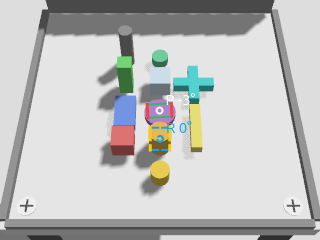
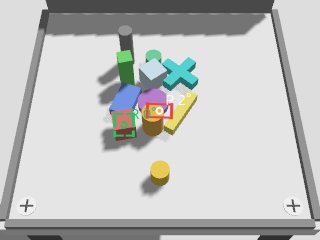
Refactorizar la estructura del código para mejorar la legibilidad y la mantenibilidad; eliminar bloques de código redundantes.

Changed region(s): [[0.2812, 0.2042, 0.6875, 0.7292]]

diff --git a/agarre_ros2_ws/src/ur5_qt_panel/ur5_qt_panel/panel_v2.py b/agarre_ros2_ws/src/ur5_qt_panel/ur5_qt_panel/panel_v2.py
@@ -1126,7 +1126,13 @@ class CameraController:
         now = time.time()
         if (now - p._camera_info_last_ts) >= max(0.05, float(CAMERA_INFO_INTERVAL_SEC)):
             p.camera_info.setText(f"Conectado · {w}x{h} · fps {fps:.1f}")
-            _moving = bool(p._manual_inflight or p._script_motion_active)
+            # TFM/MoveIt grasp execution uses _motion_in_progress rather than
+            # the manual/script flags, so include it in the panel state label.
+            _moving = bool(
+                p._manual_inflight
+                or p._script_motion_active
+                or getattr(p, "_motion_in_progress", False)
+            )
             p.motion_lbl.setText("moving" if _moving else "idle")
             p.motion_lbl.setStyleSheet(
                 "color:#f59e0b; font-weight:bold; font-size:13px;" if _moving
@@ -6074,6 +6080,23 @@ class ControlPanelV2(QMainWindow):
                         self._emit_log(f"[PHYSICS][DROP] {release_msg}")
 
                 if not release_ok:
+                    if used_release_service:
+                        time.sleep(0.6)
+                        try:
+                            self._refresh_objects_from_gz()
+                        except Exception as exc:
+                            self._emit_log(f"[PHYSICS][DROP] refresh_after_failed_release err={exc}")
+                        if self._sync_external_release_state():
+                            release_ok = True
+                            release_msg = (
+                                f"{release_msg}; recovered_via_pose_sync"
+                                if release_msg
+                                else "recovered_via_pose_sync"
+                            )
+                            self._emit_log(
+                                "[PHYSICS][DROP] release_objects recovered via pose/info reconciliation"
+                            )
+                if not release_ok:
                     self._objects_release_done = False
                     self._objects_settled = False
                     self.signal_refresh_controls.emit()
@@ -6089,6 +6112,10 @@ class ControlPanelV2(QMainWindow):
                 if release_ok and used_release_service:
                     # Give Gazebo a short window to respawn dynamic models before detach.
                     time.sleep(0.4)
+                    try:
+                        self._refresh_objects_from_gz()
+                    except Exception as exc:
+                        self._emit_log(f"[PHYSICS][DROP] refresh_after_release err={exc}")
 
                 if release_ok and used_release_service:
                     self._drop_anchor_attached = False
@@ -6120,7 +6147,12 @@ class ControlPanelV2(QMainWindow):
                 )
                 self.signal_refresh_controls.emit()
                 self._ui_set_status("✅ Objetos soltados")
-                self._invalidate_settle("objetos liberados", restart=True)
+                if used_release_service and self._sync_external_release_state():
+                    self._emit_log(
+                        "[PHYSICS][DROP] panel settle skipped: service release already reconciled"
+                    )
+                else:
+                    self._invalidate_settle("objetos liberados", restart=True)
                 self._maybe_nudge_drop_objects("release_success")
             except Exception as e:
                 self._log_error(f"Soltar objetos error: {e}")
@@ -7888,6 +7920,10 @@ class ControlPanelV2(QMainWindow):
                 yaw_rad = math.radians(yaw_deg)
                 orientation = (0.0, 0.0, math.sin(yaw_rad / 2.0), math.cos(yaw_rad / 2.0))
                 frame = self._business_base_frame()
+                tfm_grasp_cartesian = str(
+                    os.environ.get("PANEL_TFM_GRASP_CARTESIAN", "0")
+                ).strip().lower() not in ("0", "false", "no", "off")
+                grasp_mode = "cartesian" if tfm_grasp_cartesian else "pose"
                 pre_pose = _make_pose_data((x, y, z_pre), orientation=orientation, frame=frame)
                 grasp_pose = _make_pose_data((x, y, z_grasp), orientation=orientation, frame=frame)
                 retreat_pose = _make_pose_data((x, y, z_retreat), orientation=orientation, frame=frame)
@@ -7911,14 +7947,15 @@ class ControlPanelV2(QMainWindow):
                     f"pre_z={z_pre:.3f} yaw={yaw_deg:.1f} frame={frame} wait_result={str(has_results).lower()} "
                     f"z_approach={z_approach:.3f} z_grasp_offset={z_grasp_offset:+.3f} "
                     f"speed_scale={speed_scale:.2f} accel_scale={accel_scale:.2f} "
-                    f"result_timeout={result_timeout:.1f}",
+                    f"result_timeout={result_timeout:.1f} grasp_mode={grasp_mode}",
                 )
 
                 self.signal_run_ui.emit(lambda: self._command_gripper(False, log_action="PICK", force=True))
                 self._emit_log(
                     "[PICK][MOVEIT] sequence=HOME->PREGRASP->DESCENT->GRASP->RETREAT "
                     f"frame={frame} z_approach={z_approach:.3f} z_grasp_offset={z_grasp_offset:+.3f} "
-                    f"speed_scale={speed_scale:.2f} accel_scale={accel_scale:.2f}"
+                    f"speed_scale={speed_scale:.2f} accel_scale={accel_scale:.2f} "
+                    f"grasp_mode={grasp_mode}"
                 )
                 time.sleep(0.35)
 
@@ -7962,7 +7999,7 @@ class ControlPanelV2(QMainWindow):
                 pose_subs_now = int(self.ros_worker.topic_subscriber_count(MOVEIT_POSE_TOPIC)) if has_results else 1
                 if pose_subs_now <= 0:
                     raise RuntimeError(f"no_pose_subscribers_before_grasp topic={MOVEIT_POSE_TOPIC}")
-                if not self._publish_moveit_pose("TFM_GRASP", grasp_pose_send, cartesian=True):
+                if not self._publish_moveit_pose("TFM_GRASP", grasp_pose_send, cartesian=tfm_grasp_cartesian):
                     raise RuntimeError("publish_grasp_failed")
                 if has_results:
                     ok_grasp, msg_grasp = self._wait_tfm_moveit_result(
@@ -7972,8 +8009,10 @@ class ControlPanelV2(QMainWindow):
                         timeout_sec=result_timeout,
                         expected_request_id=grasp_request_id,
                         expected_request_uuid=grasp_request_uuid,
-                )
+                    )
                     if not ok_grasp:
+                        if not tfm_grasp_cartesian:
+                            raise RuntimeError(f"grasp_result_failed:{msg_grasp}")
                         msg_low = str(msg_grasp or "").lower()
                         reason = "unknown"
                         if "collision" in msg_low:
@@ -11479,33 +11518,6 @@ class ControlPanelV2(QMainWindow):
                 painter.setPen(QPen(QColor(0, 255, 0), 1))
                 painter.drawText(QPointF(px + 12, py - 8), f"P{i+1}")
 
-            # Ejes XYZ para orientar la calibración
-            def _world_to_pixel(wx: float, wy: float):
-                calib = self.calib_service.get_calibration() if hasattr(self, "calib_service") else None
-                if not calib or calib.matrix is None:
-                    return None
-                try:
-                    if calib.mode == CalibrationMode.LINEAR_2PT:
-                        sx = float(calib.matrix[0, 0])
-                        sy = float(calib.matrix[1, 1])
-                        tx = float(calib.matrix[0, 2])
-                        ty = float(calib.matrix[1, 2])
-                        if abs(sx) < 1e-9 or abs(sy) < 1e-9:
-                            return None
-                        px = (wx - tx) / sx
-                        py = (wy - ty) / sy
-                        return (px, py)
-                    if calib.mode == CalibrationMode.HOMOGRAPHY:
-                        inv = np.linalg.inv(calib.matrix)
-                        vec = inv @ np.array([wx, wy, 1.0])
-                        if abs(vec[2]) < 1e-9:
-                            return None
-                        return (float(vec[0] / vec[2]), float(vec[1] / vec[2]))
-                except Exception as exc:
-                    _log_exception("calib world_to_pixel", exc)
-                    return None
-                return None
-
             def _draw_arrow(p0, p1, color: QColor, label: str):
                 if not p0 or not p1:
                     return
@@ -11526,17 +11538,39 @@ class ControlPanelV2(QMainWindow):
                 painter.setPen(QPen(color, 1))
                 painter.drawText(QPointF(p1[0] + 4.0, p1[1] - 4.0), label)
 
-            # Representación compacta de ejes en la esquina superior izquierda
-            axis_len_px = max(26.0, min(w, h) * 0.07)
-            margin = 16.0
-            base = (margin, margin + axis_len_px * 1.2)
-            x_tip = (base[0] + axis_len_px, base[1])
-            y_tip = (base[0], base[1] - axis_len_px)
-            z_tip = (base[0] - axis_len_px * 0.5, base[1] - axis_len_px * 0.7)
+            # Dibujar ejes usando la proyeccion real de la calibracion.
+            # El icono fijo en esquina solo queda como fallback cuando no hay
+            # una proyeccion geometrica util.
+            table_top = self._resolve_table_top_z()
+            axis_span = min(TABLE_SIZE_X, TABLE_SIZE_Y) * 0.18
+            base = self._world_to_pixel(TABLE_CENTER_X, TABLE_CENTER_Y, table_top, w, h)
+            x_tip = self._world_to_pixel(TABLE_CENTER_X + axis_span, TABLE_CENTER_Y, table_top, w, h)
+            y_tip = self._world_to_pixel(TABLE_CENTER_X, TABLE_CENTER_Y + axis_span, table_top, w, h)
+            z_tip = world_xyz_to_pixel(TABLE_CENTER_X, TABLE_CENTER_Y, table_top + axis_span, w, h)
 
-            _draw_arrow(base, x_tip, QColor(239, 68, 68), "X+")
-            _draw_arrow(base, y_tip, QColor(34, 197, 94), "Y+")
-            _draw_arrow(base, z_tip, QColor(59, 130, 246), "Z+")
+            projected_axes_ok = bool(
+                base
+                and x_tip
+                and y_tip
+                and math.hypot(float(x_tip[0]) - float(base[0]), float(x_tip[1]) - float(base[1])) > 8.0
+                and math.hypot(float(y_tip[0]) - float(base[0]), float(y_tip[1]) - float(base[1])) > 8.0
+            )
+
+            if projected_axes_ok:
+                _draw_arrow(base, x_tip, QColor(239, 68, 68), "X+")
+                _draw_arrow(base, y_tip, QColor(34, 197, 94), "Y+")
+                if z_tip and math.hypot(float(z_tip[0]) - float(base[0]), float(z_tip[1]) - float(base[1])) > 8.0:
+                    _draw_arrow(base, z_tip, QColor(59, 130, 246), "Z+")
+            else:
+                axis_len_px = max(26.0, min(w, h) * 0.07)
+                margin = 16.0
+                base = (margin, margin + axis_len_px * 1.2)
+                x_tip = (base[0] + axis_len_px, base[1])
+                y_tip = (base[0], base[1] - axis_len_px)
+                z_tip = (base[0] - axis_len_px * 0.5, base[1] - axis_len_px * 0.7)
+                _draw_arrow(base, x_tip, QColor(239, 68, 68), "X+")
+                _draw_arrow(base, y_tip, QColor(34, 197, 94), "Y+")
+                _draw_arrow(base, z_tip, QColor(59, 130, 246), "Z+")
         finally:
             painter.end()
         return img_copy

diff --git a/agarre_ros2_ws/src/ur5_tools/ur5_tools/ur5_moveit_bridge.py b/agarre_ros2_ws/src/ur5_tools/ur5_tools/ur5_moveit_bridge.py
@@ -9,6 +9,7 @@ from collections import deque
 from copy import deepcopy
 import json
 import math
+import os
 from pathlib import Path
 import sys
 import threading
@@ -925,6 +926,16 @@ class UR5MoveItBridge(Node):
             time.sleep(0.05)
         return False, f"{last_reason} timeout={max(0.1, float(timeout_sec)):.2f}s"
 
+    @staticmethod
+    def _env_float(name: str, default: float) -> float:
+        raw = os.environ.get(name, "")
+        if not raw:
+            return float(default)
+        try:
+            return float(raw)
+        except Exception:
+            return float(default)
+
     def _available_action_names(self) -> list[str]:
         try:
             names = self.get_action_names_and_types()
@@ -1731,7 +1742,26 @@ class UR5MoveItBridge(Node):
                     max_start_err = max(max_start_err, err)
                     start_err_details.append((jname, cur, tgt, err))
 
-                lead_sec = max(0.20, min(2.50, max_start_err / 0.8))
+                lead_gain = max(
+                    0.20,
+                    self._env_float("PANEL_MOVEIT_BRIDGE_START_LEAD_GAIN", 0.8),
+                )
+                lead_max_sec = max(
+                    0.50,
+                    self._env_float("PANEL_MOVEIT_BRIDGE_START_LEAD_MAX_SEC", 2.5),
+                )
+                blend_err_rad = max(
+                    0.30,
+                    self._env_float("PANEL_MOVEIT_BRIDGE_START_BLEND_ERR_RAD", 1.0),
+                )
+                blend_ratio = min(
+                    0.80,
+                    max(
+                        0.20,
+                        self._env_float("PANEL_MOVEIT_BRIDGE_START_BLEND_RATIO", 0.55),
+                    ),
+                )
+                lead_sec = max(0.20, min(lead_max_sec, max_start_err / lead_gain))
                 if max_start_err > 0.05:
                     lead_sec = max(0.50, lead_sec)
                     top_errs = sorted(
@@ -1770,6 +1800,50 @@ class UR5MoveItBridge(Node):
                         tfs.nanosec = nsec
 
                 if max_start_err > 0.02:
+                    first_point_time = 0.0
+                    try:
+                        first_tfs = points[0].time_from_start
+                        first_point_time = (
+                            float(getattr(first_tfs, "sec", 0) or 0)
+                            + float(getattr(first_tfs, "nanosec", 0) or 0)
+                            / 1_000_000_000.0
+                        )
+                    except Exception:
+                        first_point_time = max(0.0, float(lead_sec))
+                    inserted_midpoint = False
+                    if max_start_err >= blend_err_rad and first_point_time >= 0.60:
+                        mid_time = min(
+                            max(0.25, first_point_time * blend_ratio),
+                            max(0.25, first_point_time - 0.10),
+                        )
+                        if mid_time >= 0.20:
+                            midpoint = deepcopy(points[0])
+                            midpoint_positions: list[float] = []
+                            for idx, jname in enumerate(joint_names):
+                                cur = float(current_vec[idx])
+                                tgt = float(first_positions[idx])
+                                if jname in self._WRAPAROUND_JOINTS:
+                                    delta = math.atan2(
+                                        math.sin(tgt - cur),
+                                        math.cos(tgt - cur),
+                                    )
+                                    interp = cur + (delta * blend_ratio)
+                                else:
+                                    interp = cur + ((tgt - cur) * blend_ratio)
+                                midpoint_positions.append(float(interp))
+                            midpoint.positions = tuple(midpoint_positions)
+                            midpoint.velocities = tuple(0.0 for _ in joint_names)
+                            if getattr(midpoint, "accelerations", None):
+                                midpoint.accelerations = tuple(0.0 for _ in joint_names)
+                            mid_sec = int(mid_time)
+                            mid_nsec = int(round((mid_time - mid_sec) * 1_000_000_000.0))
+                            if mid_nsec >= 1_000_000_000:
+                                mid_sec += 1
+                                mid_nsec -= 1_000_000_000
+                            midpoint.time_from_start.sec = mid_sec
+                            midpoint.time_from_start.nanosec = mid_nsec
+                            points.insert(0, midpoint)
+                            inserted_midpoint = True
                     start_point = deepcopy(points[0])
                     start_point.positions = tuple(current_vec)
                     start_point.velocities = tuple(0.0 for _ in joint_names)
@@ -1781,7 +1855,8 @@ class UR5MoveItBridge(Node):
                     prepared.points = points
                     self.get_logger().info(
                         "[BRIDGE_EXEC] inserted start-state waypoint for controller "
-                        f"max_start_err={max_start_err:.4f}rad lead_sec={lead_sec:.2f}"
+                        f"max_start_err={max_start_err:.4f}rad lead_sec={lead_sec:.2f} "
+                        f"midpoint={str(bool(inserted_midpoint)).lower()}"
                     )
                 try:
                     preview_points = list(points[:2])
@@ -2291,18 +2366,37 @@ class UR5MoveItBridge(Node):
                             level="warn",
                         )
                         continue
+                    settle_timeout_sec = max(
+                        0.4,
+                        self._env_float(
+                            "PANEL_MOVEIT_BRIDGE_JOINT_SETTLE_TIMEOUT_SEC",
+                            min(1.5, max(0.4, float(self._joint_state_valid_timeout_sec))),
+                        ),
+                    )
+                    settle_stable_sec = max(
+                        0.05,
+                        self._env_float("PANEL_MOVEIT_BRIDGE_JOINT_SETTLE_STABLE_SEC", 0.25),
+                    )
+                    settle_tol_rad = max(
+                        0.005,
+                        self._env_float("PANEL_MOVEIT_BRIDGE_JOINT_SETTLE_TOL_RAD", 0.02),
+                    )
                     settled_ok, settled_reason = self._wait_for_joint_state_settled(
-                        timeout_sec=min(1.5, max(0.4, float(self._joint_state_valid_timeout_sec))),
-                        stable_sec=0.25,
-                        tol_rad=0.02,
+                        timeout_sec=settle_timeout_sec,
+                        stable_sec=settle_stable_sec,
+                        tol_rad=settle_tol_rad,
                     )
                     if settled_ok:
                         self.get_logger().info(
-                            f"[BRIDGE_EXEC] joint_state_settled request_id={request_id} detail={settled_reason}"
+                            "[BRIDGE_EXEC] joint_state_settled "
+                            f"request_id={request_id} detail={settled_reason} "
+                            f"cfg(timeout={settle_timeout_sec:.2f}s stable={settle_stable_sec:.2f}s tol={settle_tol_rad:.4f})"
                         )
                     else:
                         self.get_logger().warning(
-                            f"[BRIDGE_EXEC] joint_state_settle_timeout request_id={request_id} detail={settled_reason}"
+                            "[BRIDGE_EXEC] joint_state_settle_timeout "
+                            f"request_id={request_id} detail={settled_reason} "
+                            f"cfg(timeout={settle_timeout_sec:.2f}s stable={settle_stable_sec:.2f}s tol={settle_tol_rad:.4f})"
                         )
                     elapsed = time.monotonic() - self._last_plan_time
                     if self._min_plan_interval > 0.0 and elapsed < self._min_plan_interval:

diff --git a/agarre_ros2_ws/src/ur5_tools/ur5_tools/release_objects_service.py b/agarre_ros2_ws/src/ur5_tools/ur5_tools/release_objects_service.py
@@ -68,9 +68,9 @@ class ReleaseObjectsService(Node):
         self.declare_parameter("drop_anchor_name", DROP_ANCHOR_NAME)
         self.declare_parameter("detach_publish_retries", 4)
         self.declare_parameter("detach_publish_retry_sec", 0.25)
-        self.declare_parameter("settle_timeout_sec", 8.0)
+        self.declare_parameter("settle_timeout_sec", 12.0)
         self.declare_parameter("settle_poll_sec", 0.25)
-        self.declare_parameter("settle_confirmations", 12)
+        self.declare_parameter("settle_confirmations", 6)
         self._service = self.create_service(
             Trigger, "release_objects", self._handle_release
         )

diff --git a/agarre_ros2_ws/src/ur5_qt_panel/ur5_qt_panel/panel_utils.py b/agarre_ros2_ws/src/ur5_qt_panel/ur5_qt_panel/panel_utils.py
@@ -602,6 +602,13 @@ def table_xy_to_pixel_float(x: float, y: float, w: int, h: int) -> Optional[Tupl
         out = _apply_homography(inv, float(x), float(y))
         if out:
             nx, ny = out
+            # Keep the inverse homography path consistent with _norm_to_pixel.
+            # Without these flips, the calibration grid can appear vertically
+            # or horizontally mirrored even if pixel->world is correct.
+            if TABLE_IMAGE_FLIP_Y:
+                ny = -ny
+            if TABLE_IMAGE_FLIP_X:
+                nx = -nx
             if TABLE_IMAGE_SWAP_XY:
                 nx, ny = ny, nx
             px = (nx + 0.5) * w

diff --git a/agarre_ros2_ws/src/ur5_bringup/launch/ur5_stack.launch.py b/agarre_ros2_ws/src/ur5_bringup/launch/ur5_stack.launch.py
@@ -571,6 +571,8 @@ def generate_launch_description():
             {"world_name": LaunchConfiguration("world_name")},
             {"delete_service": LaunchConfiguration("gz_delete_service")},
             {"spawn_service": LaunchConfiguration("gz_spawn_service")},
+            {"settle_timeout_sec": 12.0},
+            {"settle_confirmations": 6},
         ],
         condition=IfCondition(launch_release_service),
     )
